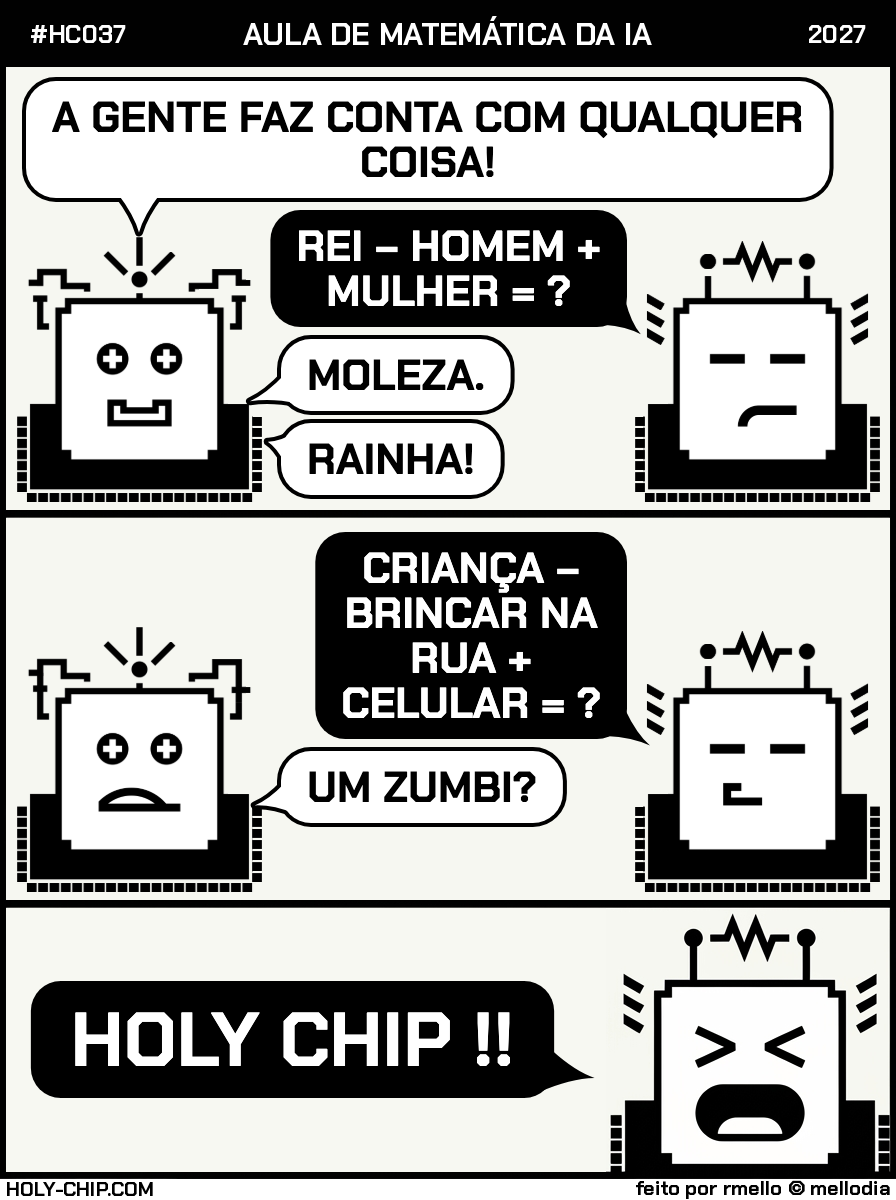
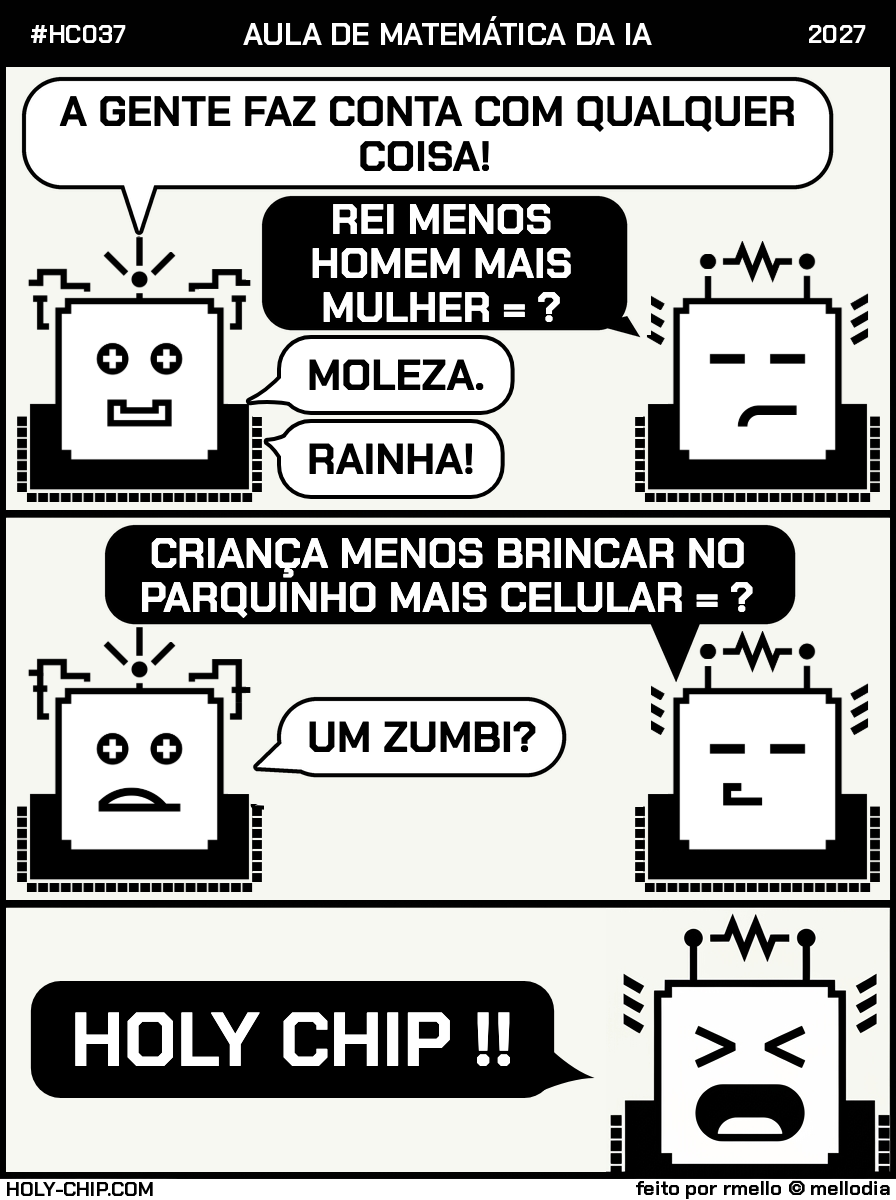
HC037 PT: menos/mais, parquinho, one font size; FR+IT: zombie bubble raised, short pointer off the chip

Changed region(s): [[0.0938, 0.4317, 0.9062, 0.7092], [0.0, 0.0617, 0.9375, 0.2775], [0.9062, 0.1233, 0.9375, 0.1542]]

diff --git a/origins/HC037.html b/origins/HC037.html
@@ -333,7 +333,7 @@
           </div>
           <div class="dialog-line">
             <span class="dialog-speaker-label">Chip 1</span>
-            <span class="dialog-text">REI − HOMEM + MULHER = ?</span>
+            <span class="dialog-text">REI MENOS HOMEM MAIS MULHER = ?</span>
           </div>
           <div class="dialog-line">
             <span class="dialog-speaker-label">Chip 0</span>
@@ -348,7 +348,7 @@
           <div class="dialog-panel-label">Painel 2</div>
           <div class="dialog-line">
             <span class="dialog-speaker-label">Chip 1</span>
-            <span class="dialog-text">CRIANÇA − BRINCAR NA RUA + CELULAR = ?</span>
+            <span class="dialog-text">CRIANÇA MENOS BRINCAR NO PARQUINHO MAIS CELULAR = ?</span>
           </div>
           <div class="dialog-line">
             <span class="dialog-speaker-label">Chip 0</span>
